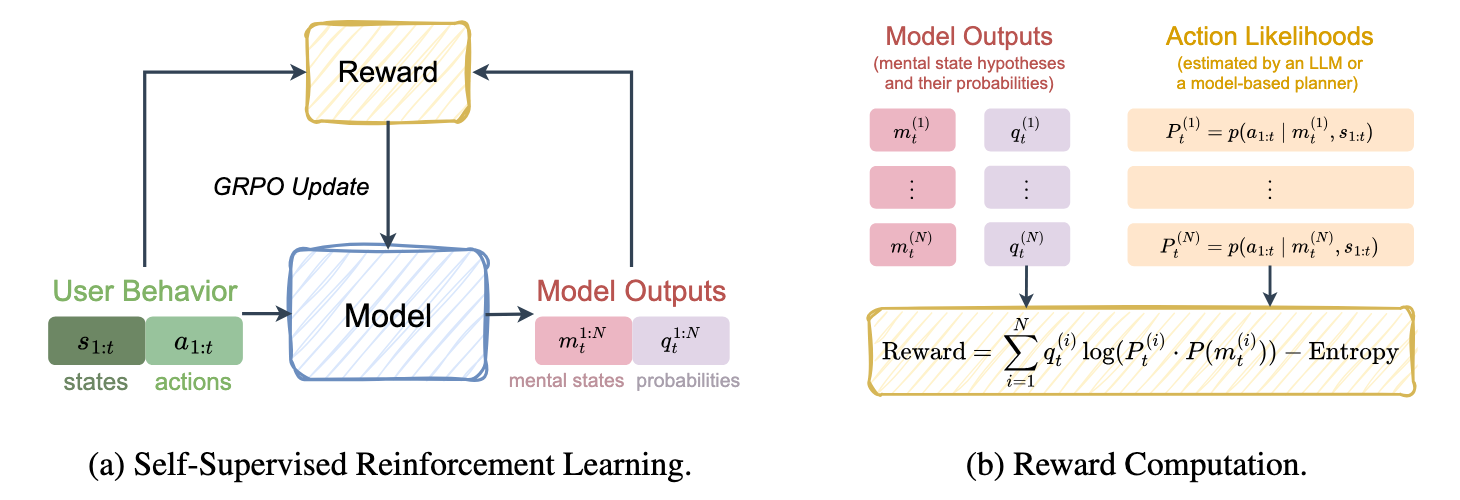
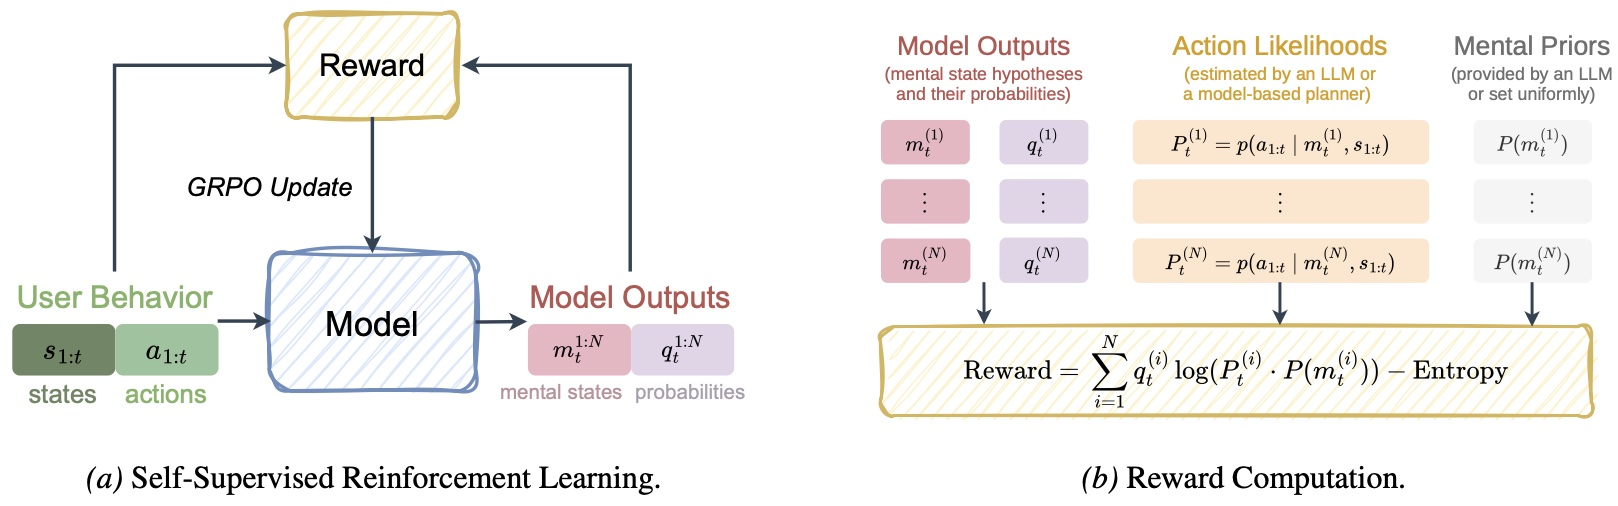
[chore] update README and other fixes

Changed region(s): [[0.0, 0.0, 1.0, 0.84], [0.0308, 0.9, 0.4932, 0.99], [0.6473, 0.9, 0.8938, 0.99]]

diff --git a/README.md b/README.md
@@ -6,7 +6,7 @@
     <sup>
   </h1>
 
-  <p><b>[ICML 2026] MindZero: Learning Online Mental Reasoning With Zero Annotations</b></p>
+  <p><i>ICML 2026</i><br><b>MindZero: Learning Online Mental Reasoning With Zero Annotations</b></p>
 
   [![Project Page](https://img.shields.io/badge/Homepage-Visit-blue?labelColor=gray&logo=homeassistantcommunitystore&logoColor=367BAF&style=flat-square)](https://scai.cs.jhu.edu/MindZero/)
   [![Hugging Face Dataset](https://img.shields.io/badge/HuggingFace-Dataset%20&%20Models-yellow?labelColor=gray&logo=huggingface&style=flat-square)](https://huggingface.co/collections/SCAI-JHU/mindzero/)
@@ -16,18 +16,15 @@
 
 ## 💡 TL;DR
 
-> **MindZero** is a self-supervised reinforcement learning framework that trains multimodal large language models (MLLMs) for efficient and robust online mental reasoning.
+> ***MindZero*** is a self-supervised reinforcement learning framework that trains multimodal large language models (MLLMs) for efficient and robust online mental reasoning.
 
-During training, the model is rewarded for generating mental state hypotheses that maximize the likelihood of observed actions estimated by a planner, similar to model-based ToM reasoning. This method thus eliminates the need for explicit mental state annotations. After training, MindZero internalizes model-based reasoning into fast single-pass inference.
+During training, the model is rewarded for generating mental state hypotheses that maximize the likelihood of observed actions estimated by a planner, similar to model-based ToM reasoning. This method thus eliminates the need for explicit mental state annotations. After training, *MindZero* internalizes model-based reasoning into fast single-pass inference.
 
-Across mental reasoning and AI assistance tasks, MindZero enhances MLLMs' intrinsic Theory of Mind (ToM) ability and significantly outperforms model-based methods in both accuracy and efficiency.
+Across mental reasoning and AI assistance tasks in gridworld and household domains, *MindZero* enhances MLLMs' intrinsic ToM ability and significantly outperforms model-based methods in both accuracy and efficiency.
 
 <p align="center">
   <img src="assets/framework.png"  alt="Overview"  width="600">
 </p>
-
-> **Highlights:** Small models & SOTA performance · Zero mental state annotations · Online inference with robust uncertainty updates over multiple hypotheses · Efficient reasoning suitable for real-time assistance
-
 
 ## 📝 Quick Start
 
@@ -67,10 +64,8 @@ We provide 3 equivalent ways to set up the environment. Choose the one that suit
 
 1. Serve the reward model with vLLM (Minimum requirement: 4xA100 80GB).
    ```sh
-   # Gridworld
-   bash scripts/vllm_serve.sh hf:Qwen/Qwen3-VL-235B-A22B-Instruct-FP8 qwen3-235b-fp8-vl 0,1,2,3 9991
-   # Household
-   bash scripts/vllm_serve.sh hf:Qwen/Qwen3-235B-A22B-Instruct-2507-FP8 qwen3-235b-fp8 0,1,2,3 9991
+   # Only for Household
+   bash scripts/vllm_serve.sh hf:Qwen/Qwen3-235B-A22B-Instruct-2507-FP8 qwen3-235b-fp8 0,1,2,3 9991 256
    ```
    Then adjust [`mods/client_configs.py`](mods/client_configs.py) if your vLLM server is not on `http://localhost:9991`.
 